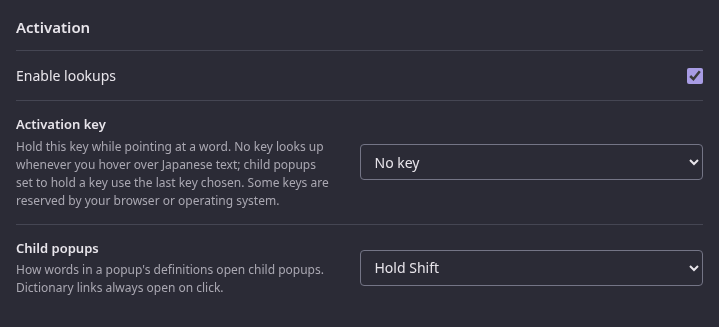
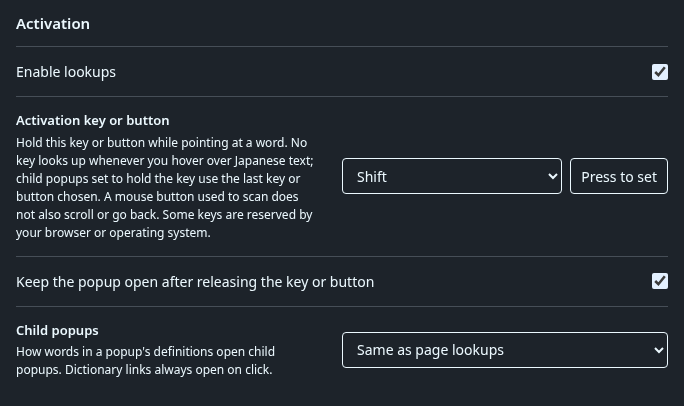
Document scan mouse buttons and refresh the Activation screenshot

diff --git a/docs/architecture.md b/docs/architecture.md
@@ -605,11 +605,32 @@ supported; browser/OS-reserved keys remain subject to their native behavior.
 
 Settings → Reading → Activation shows these stored fields the way Yomitan's
 Scanning settings do. **Enable lookups** is `hoverEnabled`, the same switch as
-the toolbar's Japanese lookups and the toggle shortcut. The **Activation key**
-picker lists **No key** first: it writes only `lookupMode: "hover"`, and a key
-writes `activationKey` with `activationSticky` or `activation` as **Keep the
-popup open after releasing the key** says. That switch is hidden for No key and
-on when a key is chosen again.
+the toolbar's Japanese lookups and the toggle shortcut. The **Activation key or
+button** picker lists **No key** first: it writes only `lookupMode: "hover"`,
+and a key writes `activationKey` with `activationSticky` or `activation` as
+**Keep the popup open after releasing the key or button** says. That switch is
+hidden for No key and on when a key is chosen again.
+
+The activation input can also be the middle, Back or Forward mouse button,
+stored as `MouseMiddle`, `MouseBack` or `MouseForward` in the same
+`activationKey` option; Yomitan's bit-index names such as `mouse2` are not
+accepted. The picker lists the buttons above the keys, and **Press to set**
+records the next key or supported button pressed anywhere on the page; the
+primary and secondary buttons and unlisted keys are reported by name and not
+saved. The reader derives a held button from `MouseEvent.buttons` on every
+mouse event, so a release the page never saw ends activation at the next move.
+A press scans at once, moving while the button is held keeps scanning, popup
+definition text opens nested lookups, and release follows the mode as a key's
+does. One fixed rule stands in for Yomitan's *Prevent secondary mouse button
+actions* switches: over content the reader scans (text a primary press could
+select, or popup definition text) the scan press is cancelled, so it starts no
+autoscroll, and a Back or Forward release is cancelled, so it does not
+navigate. Its `auxclick` is cancelled only when the press was on a word the
+reader looks up, so other links still open in new tabs. A press on a popup link
+is never a scan press. A scan button gates child popups exactly as a key does:
+with No key and Child popups set to hold it, only a press over a popup is a
+scan press, and page presses keep their ordinary meaning. Otherwise No key and
+keyboard keys are unchanged, including a middle press closing the popup.
 
 There is no open delay: `hoverDelayMs` always normalises to 0, so a scan runs
 on the next timer turn at the pointer's latest position, and a key pressed over
@@ -673,7 +694,7 @@ dispatched Note append finishes its transaction without reopening or refreshing
 the disabled reader. Settings changes reach existing tabs and persist through a
 full browser restart without reloading the engine.
 
-![Enable lookups, the Activation key picker on No key and Child popups holding Shift in Settings](assets/reader-activation-settings.png)
+![Enable lookups, the Activation key or button picker with Press to set, the keep-open switch and Child popups in Settings](assets/reader-activation-settings.png)
 
 ![Hide popup on cursor exit and its Delay in Settings](assets/reader-cursor-exit-settings.png)
 
@@ -1744,8 +1765,8 @@ keeps all fourteen task views available and groups those five Library choices.
 Global search matches settings across every section, includes the Library
 hierarchy in matching and result breadcrumbs, opens a result's enclosing
 disclosures and focuses its control without changing values or discarding drafts.
-The Activation key picker stays editable in every lookup mode, and search finds
-it by "no key" or "hover".
+The Activation key or button picker stays editable in every lookup mode, and
+search finds it by "no key", "hover" or "mouse".
 All sections stay mounted, so navigation and browser history preserve reader
 and personal-dictionary drafts. Personal source loads on first entering its section.
 The rail becomes a compact section chooser in narrow windows. Settings applies

diff --git a/docs/overlay-mode.md b/docs/overlay-mode.md
@@ -34,7 +34,7 @@ normal first-install preferences plus:
 
 | Option | Value | Settings control |
 | --- | --- | --- |
-| `lookupMode` | `"hover"` | Reading → Activation → Activation key → No key |
+| `lookupMode` | `"hover"` | Reading → Activation → Activation key or button → No key |
 | `sourceHighlightEnabled` | `false` | Design → Highlight the word on the page |
 | every `anki.templates[].captureScreenshot` | `false` | Anki → Screenshot the page when mining |
 
@@ -130,14 +130,20 @@ in use. The content script dispatches two events on `window`:
 
 | Event | Meaning |
 | --- | --- |
-| `hachidori-popup-shown` | The reader needs the window's mouse events: a popup is open, a drag is selecting text, or the lookup for a selection is pending. |
+| `hachidori-popup-shown` | The reader needs the window's mouse events: a popup is open, a drag is selecting text, the lookup for a selection is pending, or a scan mouse button is held. |
 | `hachidori-popup-hidden` | None of that is true any more. |
 
 The events fire once per change, in order, and the shown one is dispatched
-from the `mousedown` that starts a drag, before the page's own listeners run.
-GameSentenceMiner turns click-through off on the first and back on after the
-second; a host that only did so for a visible popup would lose every drag
-that starts without one.
+from the `mousedown` that starts a drag or a scan button's hold, before the
+page's own listeners run. GameSentenceMiner turns click-through off on the first
+and back on after the second; a host that only did so for a visible popup would
+lose every drag that starts without one.
+
+A scan mouse button (Reading → Activation key or button) suits an overlay: the
+host leaves the game focused, so an activation key never reaches the reader,
+but a press over OCR text does. The claim lasts while the button is held and is
+released after the release when no popup is open. Without it, Electron would
+stop reporting the held button once click-through is back on.
 
 Selecting text in the overlay works whether or not a popup is open: press on
 a glyph and drag. The selection follows glyphs, not caret positions, so the

diff --git a/test/README.md b/test/README.md
@@ -93,6 +93,13 @@ plus the toolbar toggle and revision conflicts. Search uses
 the same external jsdom dependency described below. The toolbar tests do not
 start a recording session.
 
+`node --test test/activation-settings.test.mjs` checks Reading → Activation key
+or button: No key comes first and the mouse buttons above the keys, and **Press
+to set** selects the next middle, Back or Forward press without letting its
+release, click or menu act, records keys by name, reports the primary and
+secondary buttons and unlisted keys without saving them, ignores repeats and
+cancels on Escape.
+
 `node --test test/frequency-presentation.test.mjs` checks full Yomitan-style
 frequency values by default and opt-in abbreviated numbers, the primary result's frequency tags sharing the later
 entries' tag structure, visible kana markers, tabs-only lower chrome, concise typed harmonic averages that keep each
@@ -588,6 +595,13 @@ What it proves, in order:
    stationary keydown, physical-code release and repeats, transfer/Note ownership,
    interaction-only resource retention, focused-control pointer protection, and
    cancellation of the first pending popup on departure/click/Escape/blur/scroll.
+   Scan mouse buttons are held through `MouseEvent.buttons`: a middle or Back
+   press claims the host window before any bubble listener, scans at once and
+   while moving, follows each mode on release, and ends at a move after a lost
+   release. It cancels autoscroll over text, Back navigation and a middle click's
+   new tab only on a looked-up word, opens nested lookups from definitions,
+   leaves popup links and focused editors alone, and changes nothing in Hover
+   mode or with a keyboard key. Yomitan's `mouse2` names stay invalid.
    A successful hover expands its initial one-glyph placement range to the
    complete matched word before rendering. Text moved outside the source during
    a pending lookup retains the original glyph anchor.

diff --git a/extension/README.md b/extension/README.md
@@ -118,6 +118,8 @@ the service worker and both engine runtimes run the same code.
   `experimental-settings.js` renders the Advanced → Experimental features
   switches from the registry in `reader-options.js`; `memory-settings.js`
   the Advanced → Memory readout and each Library row's *In memory* line;
+  `activation-settings.js` the Reading → Activation key or button picker and
+  its *Press to set* recorder;
   `keybind-settings.js`, `custom-button-settings.js` and `external-links.js`
   the keybinds and custom buttons in the popup; `local-file-access.js` the
   notice about Chrome's *Allow access to file URLs* permission;
